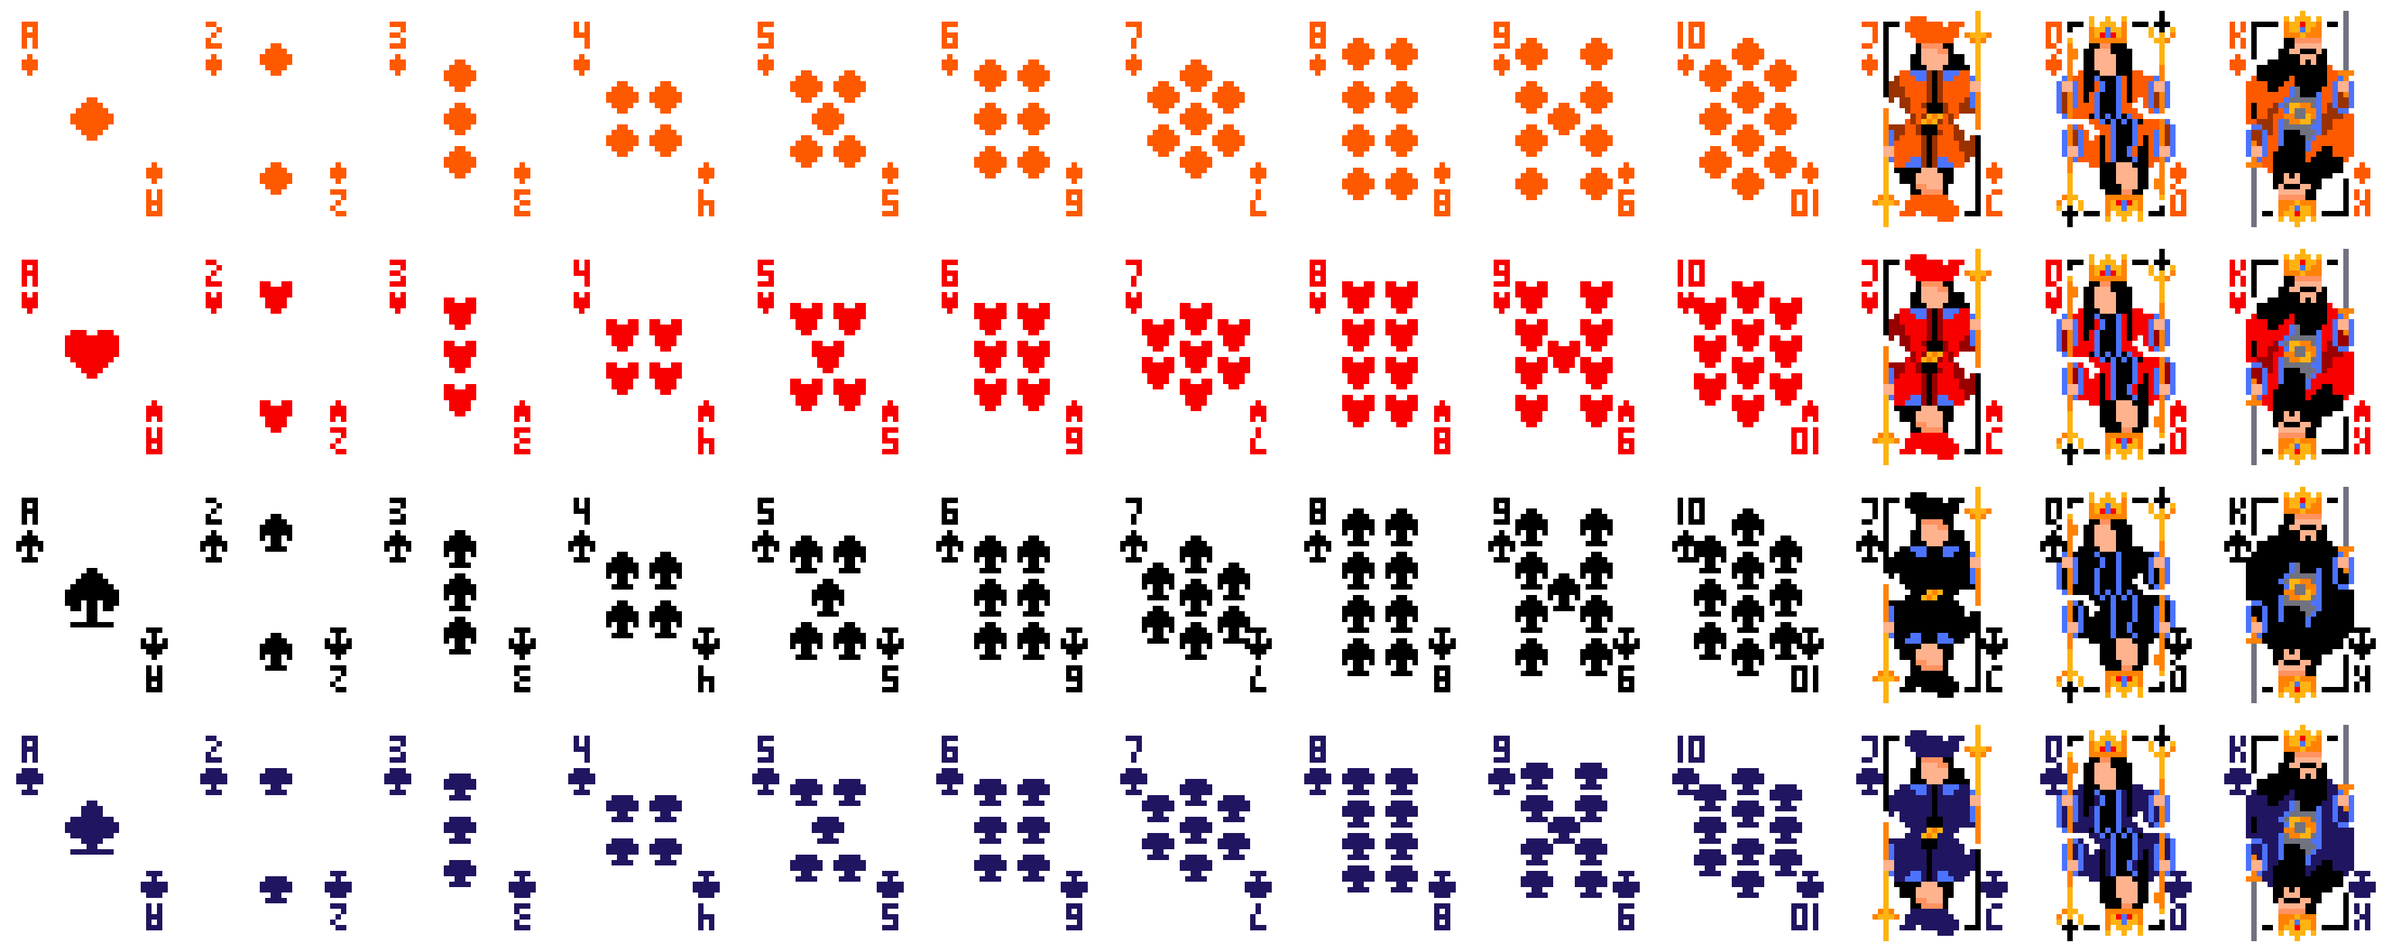
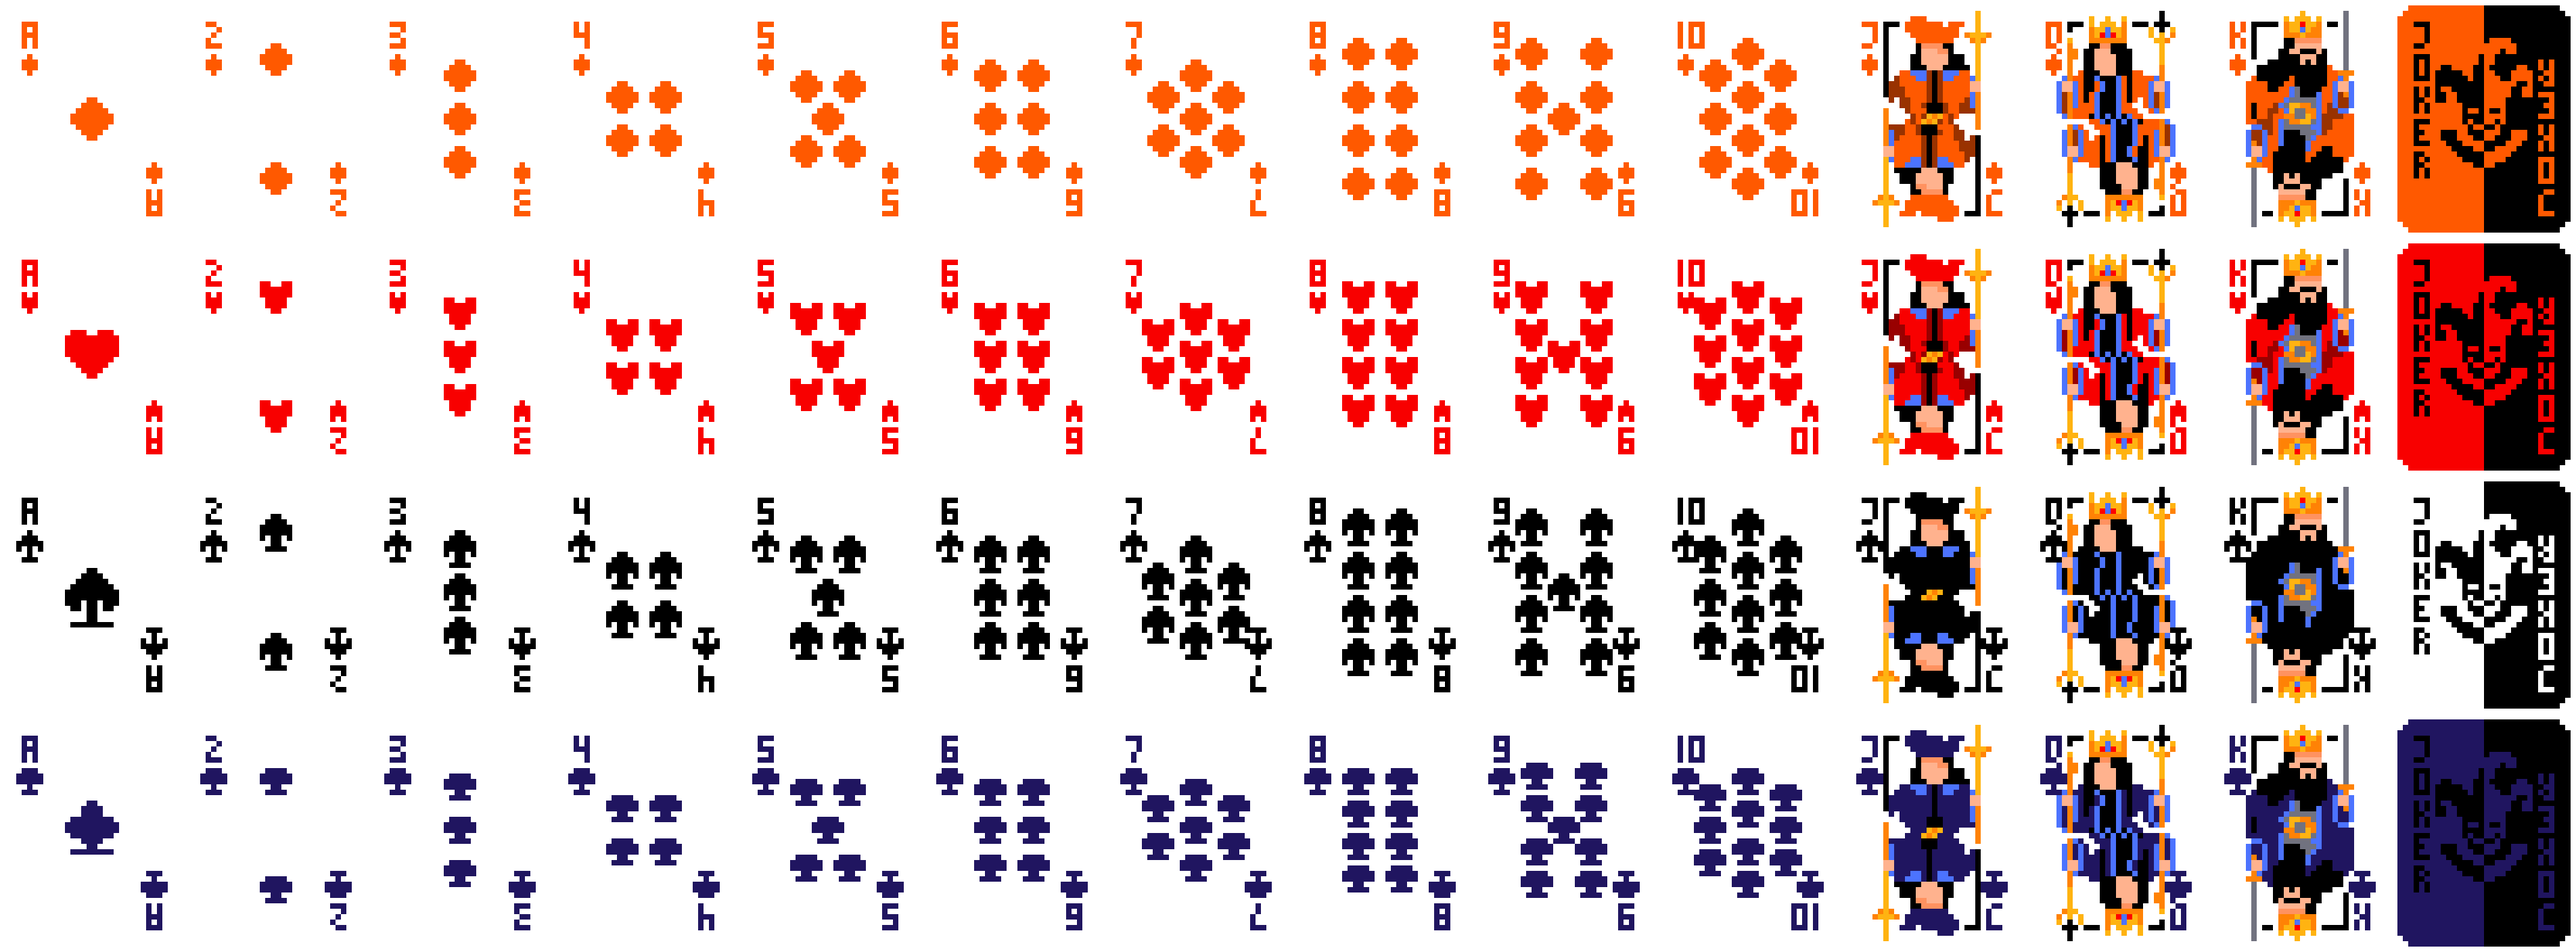
add: cards classes and more sun 08-03 23:45

diff --git a/core/src/main/java/com/soup/game/entities/Deck.java b/core/src/main/java/com/soup/game/entities/Deck.java
@@ -1,0 +1,42 @@
+package com.soup.game.entities;
+
+import com.soup.game.intf.Entity;
+import com.soup.game.meta.Rank;
+import com.soup.game.meta.Suit;
+
+import java.util.LinkedHashMap;
+import java.util.Map;
+
+public class Deck implements Entity {
+    private final Map<Long, Card> cards;
+
+    public Deck() {
+        this.cards = new LinkedHashMap<>();
+        populate();
+    }
+
+    public Map<Long, Card> getCards() {
+        return cards;
+    }
+
+    public Card draw(Card c) {
+        return cards.get(c.getId());
+    }
+
+    public void add(Card c) {
+        cards.put(c.getId(), c);
+    }
+
+    public void populate() {
+        for(Rank rank : Rank.values()) {
+            for(Suit suit : Suit.values()) {
+                add(new Card(suit, rank, rank.getPoints(), false));
+                add(new Joker(suit, Rank.JOKER, Rank.JOKER.getPoints(), true));
+            }
+        }
+    }
+
+    public void remove(Card c) {
+        cards.remove(c.getId());
+    }
+}

diff --git a/core/src/main/java/com/soup/game/entities/Card.java b/core/src/main/java/com/soup/game/entities/Card.java
@@ -1,0 +1,43 @@
+package com.soup.game.entities;
+
+import com.badlogic.gdx.scenes.scene2d.Actor;
+import com.soup.game.intf.Entity;
+import com.soup.game.meta.Rank;
+import com.soup.game.meta.Suit;
+
+public class Card extends Actor implements Entity {
+    private static long NEXT_ID = 1;
+    private final long id;
+    private final Suit suit;
+    private final Rank rank;
+    private final float points;
+    private final boolean isJoker;
+
+    public Card(Suit suit, Rank rank, float points, boolean isJoker) {
+        this.id = NEXT_ID++;
+        this.suit = suit;
+        this.rank = rank;
+        this.points = points;
+        this.isJoker = isJoker;
+    }
+
+    public long getId() {
+        return id;
+    }
+
+    public Suit getSuit() {
+        return suit;
+    }
+
+    public Rank getRank() {
+        return rank;
+    }
+
+    public float getPoints() {
+        return points;
+    }
+
+    public boolean isJoker() {
+        return isJoker;
+    }
+}

diff --git a/core/src/main/java/com/soup/game/meta/Rank.java b/core/src/main/java/com/soup/game/meta/Rank.java
@@ -1,0 +1,28 @@
+package com.soup.game.meta;
+
+public enum Rank {
+    ACE(11f),
+    TWO(2f),
+    THREE(3f),
+    FOUR(4f),
+    FIVE(5f),
+    SIX(6f),
+    SEVEN(7f),
+    EIGHT(8f),
+    NINE(9f),
+    TEN(10f),
+    JACK(12f),
+    QUEEN(13f),
+    KING(14f),
+    JOKER(25f);
+
+    private final float points;
+
+    Rank(float points) {
+        this.points = points;
+    }
+
+    public float getPoints() {
+        return this.points;
+    }
+}

diff --git a/core/src/main/java/com/soup/game/entities/Joker.java b/core/src/main/java/com/soup/game/entities/Joker.java
@@ -1,0 +1,11 @@
+package com.soup.game.entities;
+
+import com.soup.game.meta.Rank;
+import com.soup.game.meta.Suit;
+
+public class Joker extends Card {
+
+    public Joker(Suit suit, Rank rank, float points, boolean isJoker) {
+        super(suit, rank, points, isJoker);
+    }
+}

diff --git a/core/src/main/java/com/soup/game/service/DeckService.java b/core/src/main/java/com/soup/game/service/DeckService.java
@@ -1,0 +1,7 @@
+package com.soup.game.service;
+
+import com.soup.game.intf.Service;
+
+public class DeckService implements Service {
+
+}

diff --git a/core/src/main/java/com/soup/game/meta/Suit.java b/core/src/main/java/com/soup/game/meta/Suit.java
@@ -1,0 +1,5 @@
+package com.soup.game.meta;
+
+public enum Suit {
+    DIAMONDS, HEARTS, SPADES, CLUBS
+}
